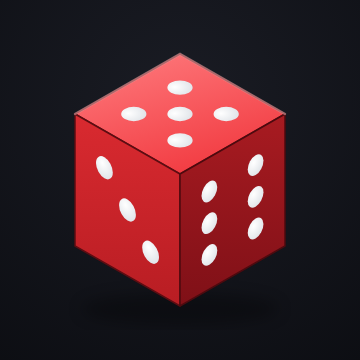
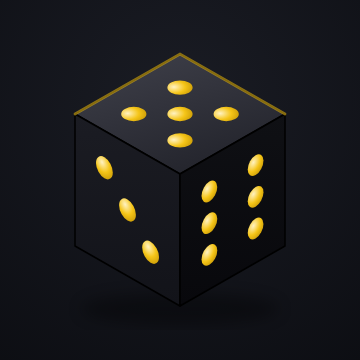
Recolor the die black-and-gold; make it the "C" in the header wordmark
- Recolor the 3D die icon from red/white to black with gold pips and a gold
  top rim — favicon.svg, apple-touch-icon.png, and the share card (whose
  ambient glow also shifts red → gold to match).
- Replace the "C" in the "Craps Trainer" header with the same black-and-gold
  die: new DieMark component (shared geometry, no ground shadow, cropped to
  sit inline like a glyph), wired into the wordmark as the leading letter.
- Drop the old ::first-letter gold rule (it would now tint the "r") and size
  the inline die to the cap height.

Claude-Session: https://claude.ai/code/session_01FVZDBswHoeFU2eVD2cUj1t

diff --git a/src/components/DieMark.jsx b/src/components/DieMark.jsx
@@ -1,0 +1,44 @@
+// The brand die — the black-and-gold 3D die that stands in for the "C" in the
+// "Craps Trainer" wordmark. Same geometry as the favicon (public/favicon.svg),
+// minus the ground shadow and tighter-cropped so it sits inline like a glyph.
+// Pips are drawn in unit grid space and matrix-mapped onto each face plane so
+// the circles foreshorten into correct ellipses on the tilted faces.
+export default function DieMark({ className = "", title = "Craps Trainer" }) {
+  return (
+    <svg className={className} viewBox="12 5 76 90" role="img" aria-label={title}
+      xmlns="http://www.w3.org/2000/svg">
+      <defs>
+        <linearGradient id="bd-ft" x1="0" y1="0" x2="0.5" y2="1">
+          <stop offset="0" stopColor="#40414b" /><stop offset="1" stopColor="#24252d" />
+        </linearGradient>
+        <linearGradient id="bd-fl" x1="0" y1="0" x2="0" y2="1">
+          <stop offset="0" stopColor="#1b1c23" /><stop offset="1" stopColor="#121319" />
+        </linearGradient>
+        <linearGradient id="bd-fr" x1="0" y1="0" x2="0" y2="1">
+          <stop offset="0" stopColor="#0f1014" /><stop offset="1" stopColor="#08080c" />
+        </linearGradient>
+        <radialGradient id="bd-pip" cx="0.36" cy="0.3" r="0.8">
+          <stop offset="0" stopColor="#fff2c2" /><stop offset="0.55" stopColor="#f5c518" /><stop offset="1" stopColor="#c99a06" />
+        </radialGradient>
+      </defs>
+      <polygon points="50,8 85,28 50,48 15,28" fill="url(#bd-ft)" stroke="#000" strokeWidth="0.5" strokeLinejoin="round" />
+      <polygon points="15,28 50,48 50,92 15,72" fill="url(#bd-fl)" stroke="#000" strokeWidth="0.5" strokeLinejoin="round" />
+      <polygon points="85,28 50,48 50,92 85,72" fill="url(#bd-fr)" stroke="#000" strokeWidth="0.5" strokeLinejoin="round" />
+      <polyline points="15,28 50,8 85,28" fill="none" stroke="#f5c518" strokeWidth="0.9" strokeLinecap="round" opacity="0.55" />
+      <g fill="url(#bd-pip)">
+        <g transform="matrix(35 -20 35 20 15 28)">
+          <circle cx="0.28" cy="0.28" r="0.085" /><circle cx="0.72" cy="0.28" r="0.085" />
+          <circle cx="0.5" cy="0.5" r="0.085" />
+          <circle cx="0.28" cy="0.72" r="0.085" /><circle cx="0.72" cy="0.72" r="0.085" />
+        </g>
+        <g transform="matrix(35 20 0 44 15 28)">
+          <circle cx="0.28" cy="0.28" r="0.08" /><circle cx="0.5" cy="0.5" r="0.08" /><circle cx="0.72" cy="0.72" r="0.08" />
+        </g>
+        <g transform="matrix(35 -20 0 44 50 48)">
+          <circle cx="0.28" cy="0.26" r="0.075" /><circle cx="0.28" cy="0.5" r="0.075" /><circle cx="0.28" cy="0.74" r="0.075" />
+          <circle cx="0.72" cy="0.26" r="0.075" /><circle cx="0.72" cy="0.5" r="0.075" /><circle cx="0.72" cy="0.74" r="0.075" />
+        </g>
+      </g>
+    </svg>
+  );
+}

diff --git a/src/App.jsx b/src/App.jsx
@@ -8,6 +8,7 @@ import { getAdvice } from "./coach.js";
 import { loadProfile, saveProfile, forgetProfile, recordRoll, readProfile } from "./coachMemory.js";
 import { nextRollOutcomes } from "./outcomes.js";
 import { Dice } from "./components/Dice.jsx";
+import DieMark from "./components/DieMark.jsx";
 import Table from "./components/Table.jsx";
 import BetsReference from "./components/BetsReference.jsx";
 import Strategy from "./components/Strategy.jsx";
@@ -261,7 +262,7 @@ export default function App() {
     <div className="app">
       <header className="topbar">
         <div className="brand">
-          <h1>Craps Trainer</h1>
+          <h1><DieMark className="brand-die" />raps Trainer</h1>
           <div className="sub">Verified engine · house edge = the price · color-coded by cost</div>
         </div>
         <div className="hud">

diff --git a/src/styles.css b/src/styles.css
@@ -41,8 +41,10 @@ body {
   display: flex; justify-content: space-between; align-items: center; gap: 12px;
   padding: 12px 0; flex-wrap: wrap;
 }
-.brand h1 { font-size: 19px; letter-spacing: .14em; text-transform: uppercase; margin: 0; font-weight: 800; }
-.brand h1::first-letter { color: var(--gold); }
+.brand h1 { font-size: 19px; letter-spacing: .14em; text-transform: uppercase; margin: 0; font-weight: 800; display: flex; align-items: center; }
+/* the die that replaces the "C" — a touch taller than the caps, flex-centered
+   on the wordmark, with a hair of space before "raps Trainer" */
+.brand-die { height: 1.42em; width: 1.32em; margin-right: 0.1em; flex-shrink: 0; }
 .brand .sub { color: var(--ink-faint); font-size: 11px; margin-top: 3px; letter-spacing: .02em; }
 .hud { display: flex; align-items: center; gap: 14px; }
 
